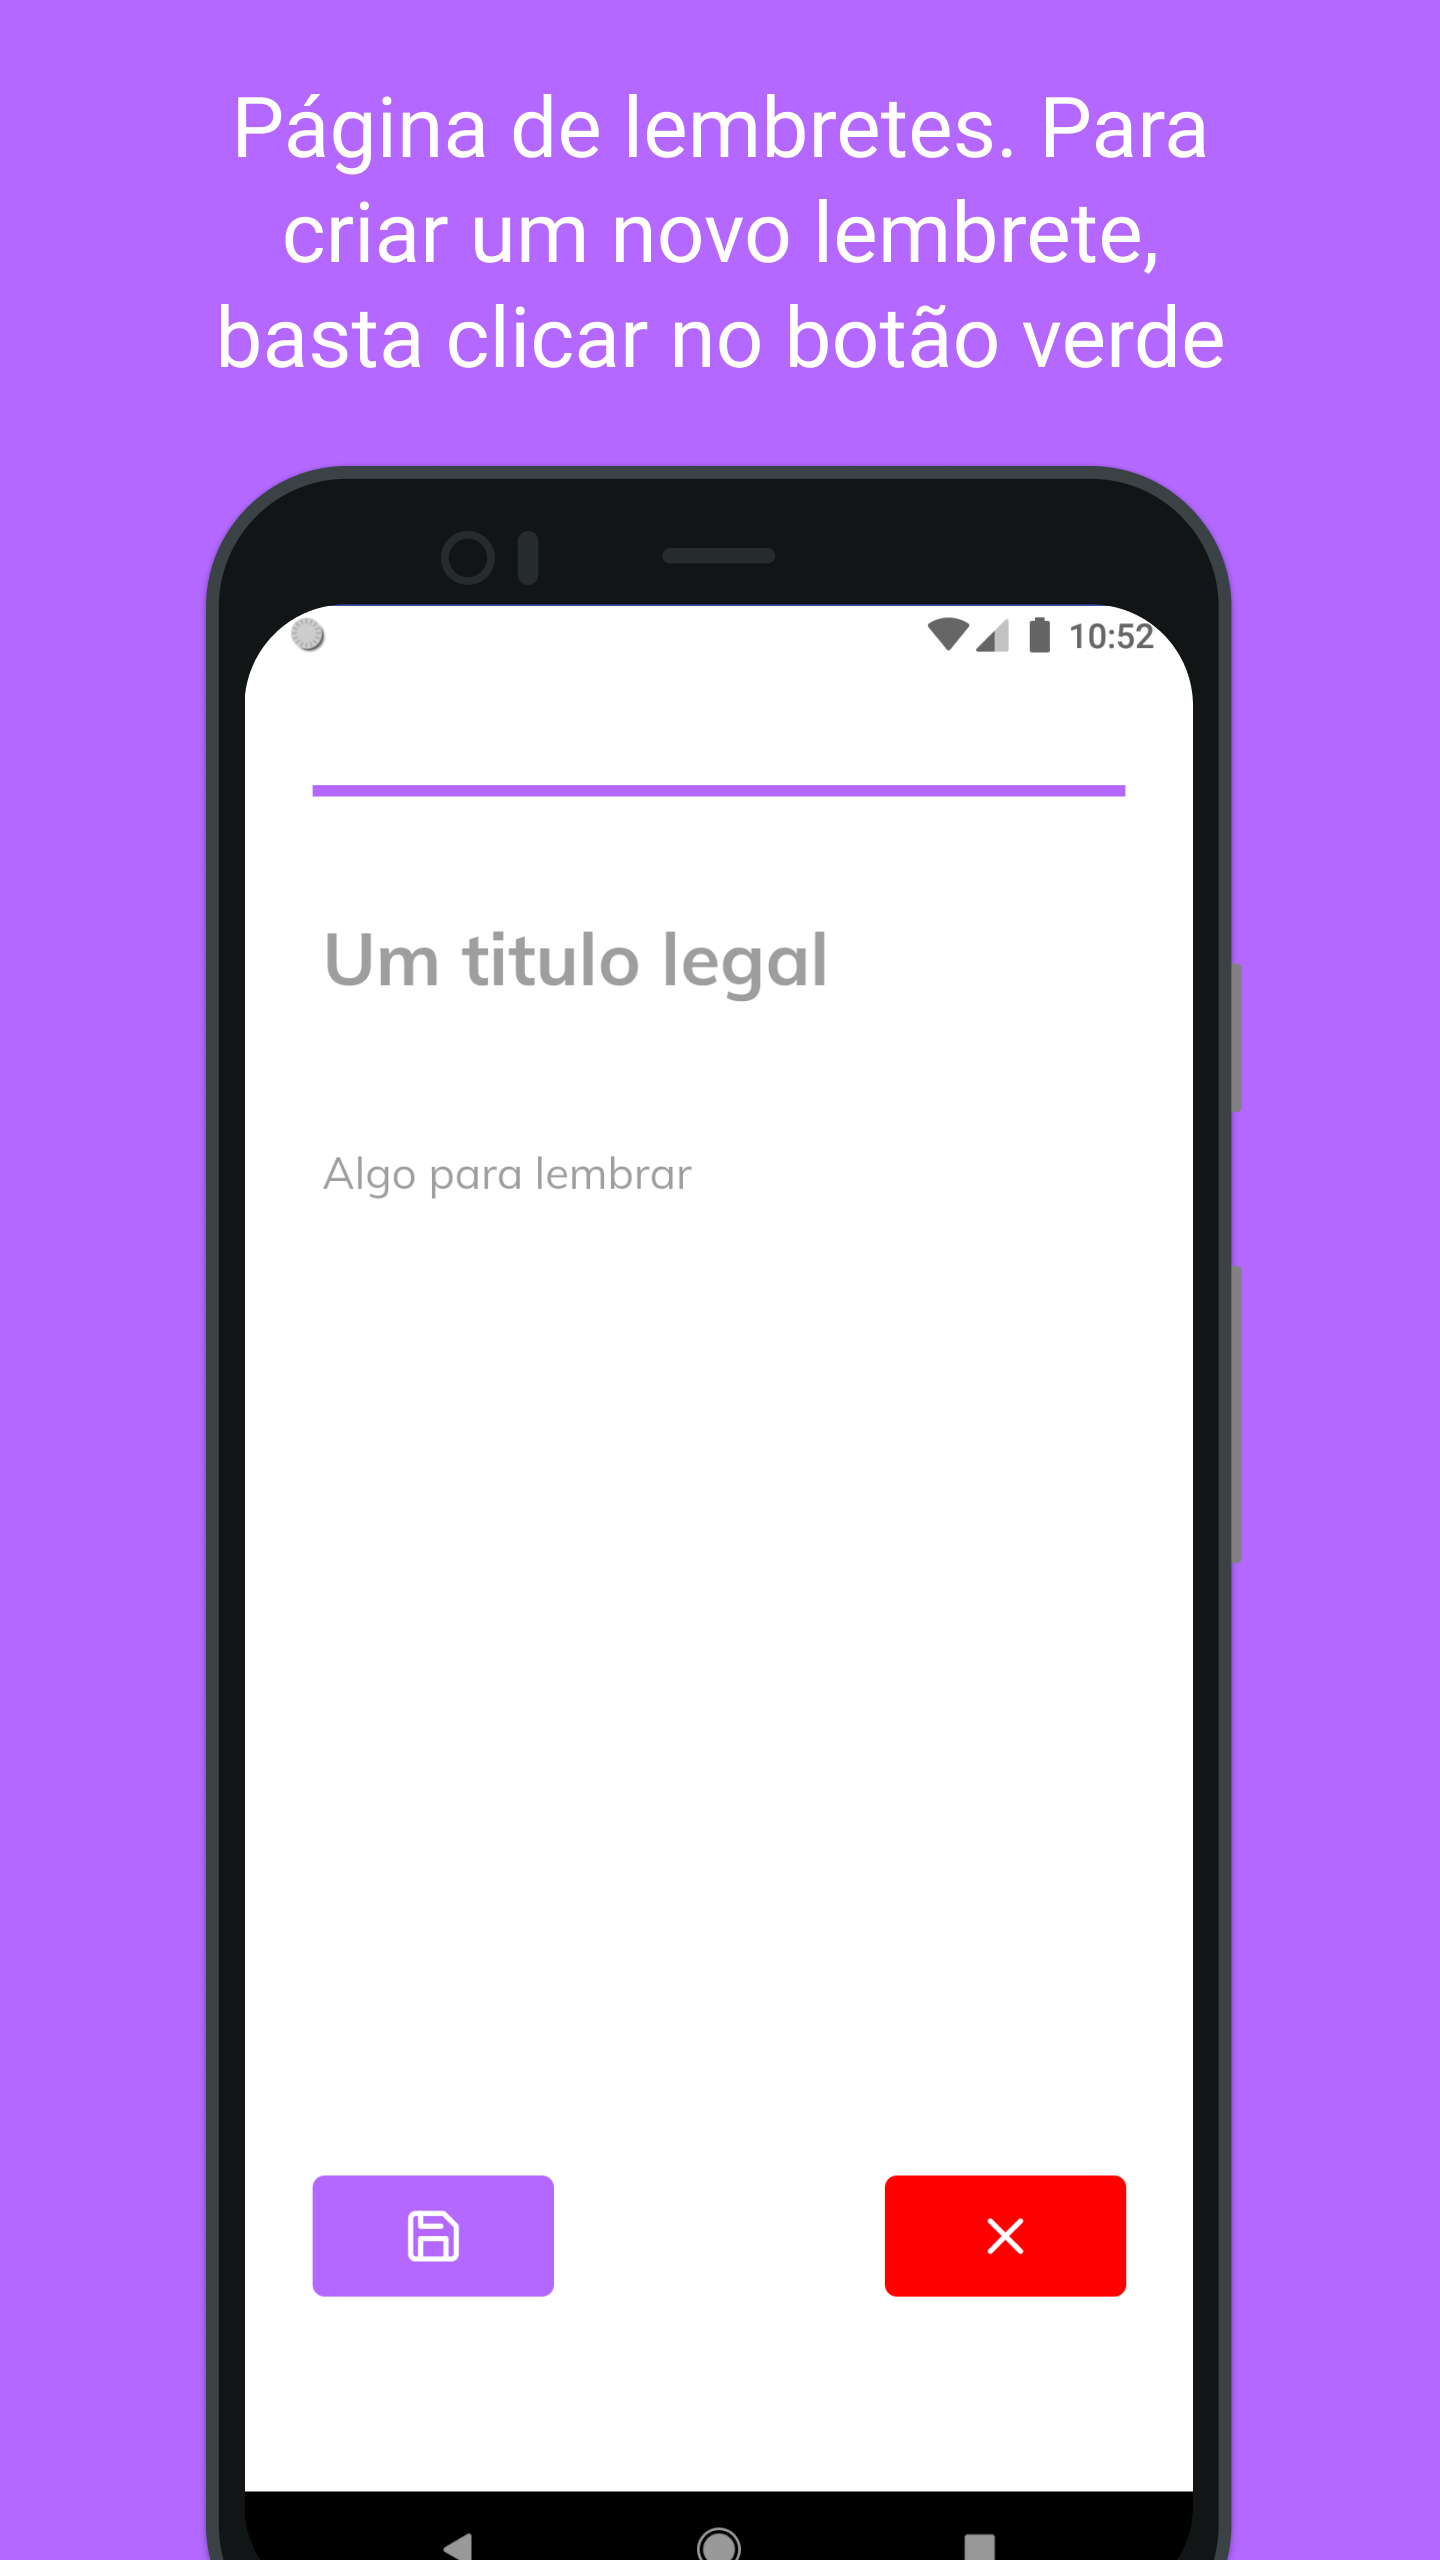
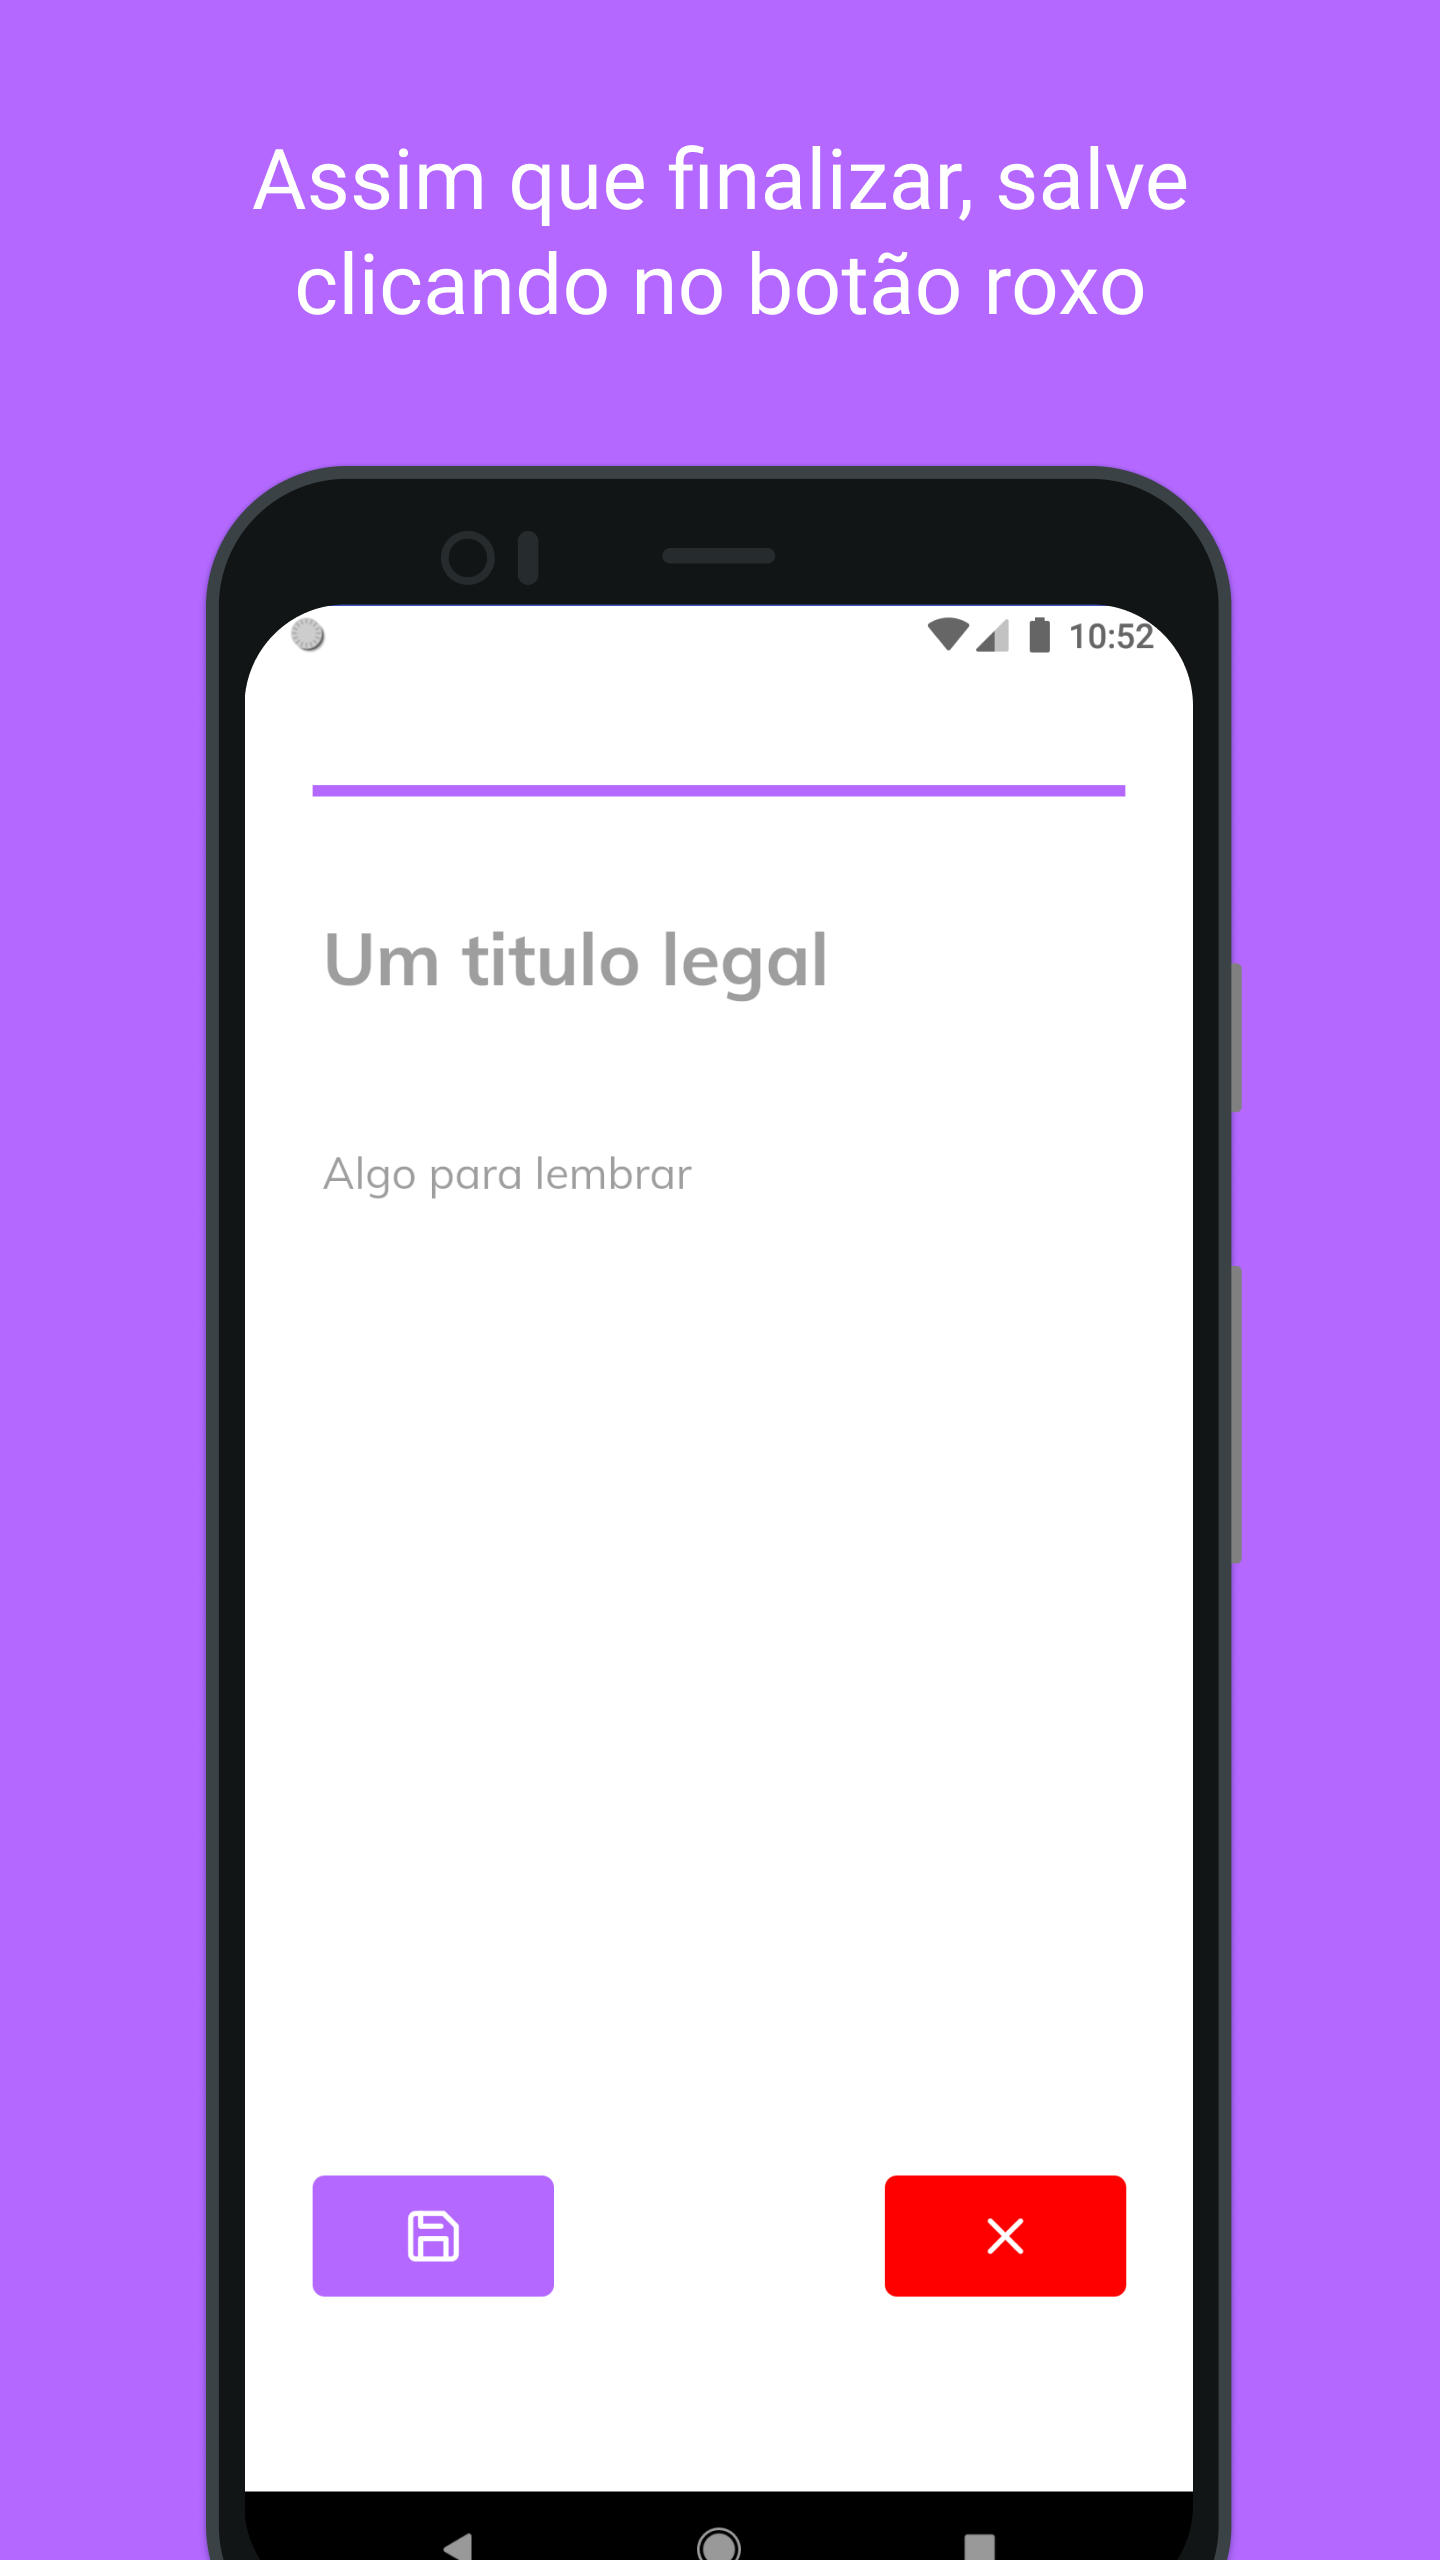
readme

Changed region(s): [[0.1562, 0.0312, 0.8438, 0.1562]]

diff --git a/README.md b/README.md
@@ -2,9 +2,13 @@
   <img alt="icone" title="Notes" src="https://github.com/Jordaobm/notes-React-Native/blob/main/android/app/src/main/res/mipmap-xxxhdpi/ic_launcher.png" />
 </h1>
 
-# Projeto Notes - React Native
+# Notes - React Native
 
-Notes é uma app desenvolvido para Android usando React-Native com o intuito de aperfeiçoar minhas habilidades em React-Native e em algumas libs. Nessa aplicação uso conceitos de componentização, gerenciamento de estados com a ContextAPI do React e seus ReactHooks.
+Notes é uma app desenvolvido para Android usando React-Native com o intuito de aperfeiçoar minhas habilidades em React e em algumas libs. Nessa aplicação uso conceitos de componentização, gerenciamento de estados com a ContextAPI do React e seus ReactHooks para criar, editar e deletar notas e lembretes, de forma simples e rápida.
+
+## 💡Ideia
+
+O foco da aplicação e manter um visual simples e agradável ao usuário, onde ele interage com as funcionalidades de forma direta e fácil. Em Notes você pode criar, armazenar, editar e excluir notas e lembretes! Os lembretes em especial terão notificações inclusas. Quando a hora definida no lembrete chegar, a notifcação soará alertando o usuário.
 
 ## Ferramentas e bibliotecas utilizadas no projeto:
 
@@ -17,16 +21,12 @@ Notes é uma app desenvolvido para Android usando React-Native com o intuito de 
 - react-native-vector-icons (icones auto-explicativos)
 - react-native-paper (Modais)
 - react-native-push-notification (Notificações locais para lembretes)
+- react-native-markdown-display (Formato markdown para marcação de textos no corpo de notas e lembretes)
 - Styled-Components (ferramenta para uso do css em forma de componentes React)
 
 ### Demais ferramentas e sites que auxiliaram na construção da UI
 
 - Figma(UI design)
-- VectorIcons
-
-# 💡Ideia
-
-Criar, armazenar, editar e excluir notas e lembretes! Os lembretes em especial terão notificações inclusas. Quando a hora defina no lembrete chegar, a notifcação soará alertando o usuário.
 
 ## Requisitos Funcionais:
 
@@ -38,6 +38,7 @@ Criar, armazenar, editar e excluir notas e lembretes! Os lembretes em especial t
 - [x]  Poder colocar datas nos lembretes
 - [x]  Poder editar os lembretes criados
 - [x]  Poder deletar os lembretes
+- [x]  Usar Markdown para formatar o texto dentro do corpo das notas e lembretes
 
 ## Requisitos Não Funcionais
 
@@ -49,16 +50,16 @@ Criar, armazenar, editar e excluir notas e lembretes! Os lembretes em especial t
 
 ## Criando uma nota
 
-Na primeira página da aplicação encontram-se as notas. Para adicionar uma nova nota basta clicar no botão roxo no canto direito do rodapé da página.
+Na primeira página da aplicação encontram-se as notas. 
 
 <h1 align="center">
-  <img alt="Notes" width="300px" src="https://github.com/Jordaobm/notes-React-Native/blob/main/assets/documentation/Notes.jpg" />
+  <img alt="Notes" width="300px" src="https://github.com/Jordaobm/notes-React-Native/blob/main/assets/documentation/01.png" />
 </h1>
 
 Você será direcionado para a página de criação de novas notas, onde poderá adicionar um título e um corpo à sua nota. Nestes campos são válidos todos os tipos de caracteres nativos do seu smarthphone.
 
 <h1 align="center">
-  <img alt="Notes" width="300px" src="https://github.com/Jordaobm/notes-React-Native/blob/main/assets/documentation/NewNotes.jpg" />
+  <img alt="Notes" width="300px" src="https://github.com/Jordaobm/notes-React-Native/blob/main/assets/documentation/02.png" />
 </h1>
 
 ## Criando um lembrete
@@ -66,47 +67,51 @@ Você será direcionado para a página de criação de novas notas, onde poderá
 Para criar um lembrete basta acessar a página de reminders pelos botões de navegação no rodapé da página, e você será direcionado para uma página idêntica à de notas, no entanto agora você está na sessão de lembretes. Para adicionar um novo lembrete basta clicar no botão verde no canto direito do rodapé da página.
 
 <h1 align="center">
-  <img alt="Reminders" width="300px" src="https://github.com/Jordaobm/notes-React-Native/blob/main/assets/documentation/Reminders.jpg" />
+  <img alt="Notes" width="300px" src="https://github.com/Jordaobm/notes-React-Native/blob/main/assets/documentation/03.png" />
 </h1>
 
 Você será direcionado para a página de criação de novos lembretes, onde poderá adicionar um título, corpo e data para ser lembrado. Nestes campos são válidos todos os tipos de caracteres nativos do seu smarthphone. Ao finalizar a criação de seu lembrete, tenha em mente que a data para ser lembrado é obrigatória, e que não poderá criar um lembrete sem especificar uma data. 
 
 <h1 align="center">
-  <img alt="newreminder" width="300px" src="https://github.com/Jordaobm/notes-React-Native/blob/main/assets/documentation/NewReminder.jpg" />
+  <img alt="Notes" width="300px" src="https://github.com/Jordaobm/notes-React-Native/blob/main/assets/documentation/04.png" />
 </h1>
 
 Para adicionar uma data, clique no botão laranja. Ao clicar será aberto um modal conforme abaixo. Neste modal você poderá selecionar a data e a hora em que pretende ser lembrado.
 
 <h1 align="center">
-  <img alt="modal" width="300px" src="https://github.com/Jordaobm/notes-React-Native/blob/main/assets/documentation/modal.jpg" />
+  <img alt="Notes" width="300px" src="https://github.com/Jordaobm/notes-React-Native/blob/main/assets/documentation/05.png" />
 </h1>
 
 Ao cliclar em "Selecione uma data", o DatePicker nativo de seu dispositivo exibirá um calendário para que você selecione a data.
 
 <h1 align="center">
-  <img alt="datepickerdate" width="300px" src="https://github.com/Jordaobm/notes-React-Native/blob/main/assets/documentation/datepickerdate.jpg" />
+  <img alt="Notes" width="300px" src="https://github.com/Jordaobm/notes-React-Native/blob/main/assets/documentation/06.png" />
 </h1>
 
 Após a seleção da data, selecione a hora em que pretende ser lembrado clicando em "Selecione a hora". **É muito importante que você selecione a data e a hora, pois caso algum desdes não seja selecionado não será possível a criação do lembrete.**
 
 <h1 align="center">
-  <img alt="datepickertime" width="300px" src="https://github.com/Jordaobm/notes-React-Native/blob/main/assets/documentation/datepickertime.jpg" />
+  <img alt="Notes" width="300px" src="https://github.com/Jordaobm/notes-React-Native/blob/main/assets/documentation/07.png" />
 </h1>
 
 Após as seleções feitas, o modal informará em coloração verde a data selecionada. Caso corresponda com suas necessidades, você poderá clicar no botão verde "Salvar".
 
 <h1 align="center">
-  <img alt="modal-data-preenchida" width="300px" src="https://github.com/Jordaobm/notes-React-Native/blob/main/assets/documentation/modal-data-preenchida.jpg" />
+  <img alt="Notes" width="300px" src="https://github.com/Jordaobm/notes-React-Native/blob/main/assets/documentation/08.png" />
 </h1>
 
-E então o modal será fechado e você retornará à página de criação de seu lembrete, agora sinalizado em verde à data em que você será lembrado. Para finalizar basta clicar no botão verde "Salvar" e então seu lembrete será agendado para a data selecionada. Lembretes "expirados" ficarão em vermelho na página de lembretes, enquanto os lembretes que ainda não expiraram permanecerão em verde
+E então o modal será fechado e você retornará à página de criação de seu lembrete, agora sinalizado em verde à data em que você será lembrado. Para finalizar basta clicar no botão verde "Salvar" e então seu lembrete será agendado para a data selecionada. Lembretes "expirados" ficarão em vermelho na página de lembretes e seus detalhes, enquanto os lembretes que ainda não expiraram permanecerão em verde.
 
 <h1 align="center">
-  <img alt="datapreenchida" width="300px" src="https://github.com/Jordaobm/notes-React-Native/blob/main/assets/documentation/datapreenchida.jpg" />
+  <img alt="Notes" width="300px" src="https://github.com/Jordaobm/notes-React-Native/blob/main/assets/documentation/11.png" />
+</h1>
+
+<h1 align="center">
+  <img alt="Notes" width="300px" src="https://github.com/Jordaobm/notes-React-Native/blob/main/assets/documentation/12.png" />
 </h1>
 
 Por fim, quando chegar o momento, seu lembrete soará uma notificação em seu dispositivo, alertando-o. 
 
 <h1 align="center">
-  <img alt="notificacao" src="https://github.com/Jordaobm/notes-React-Native/blob/main/assets/documentation/Notifica%C3%A7%C3%A3o.jpg" />
+  <img alt="Notes" width="300px" src="https://github.com/Jordaobm/notes-React-Native/blob/main/assets/documentation/10.png" />
 </h1>
